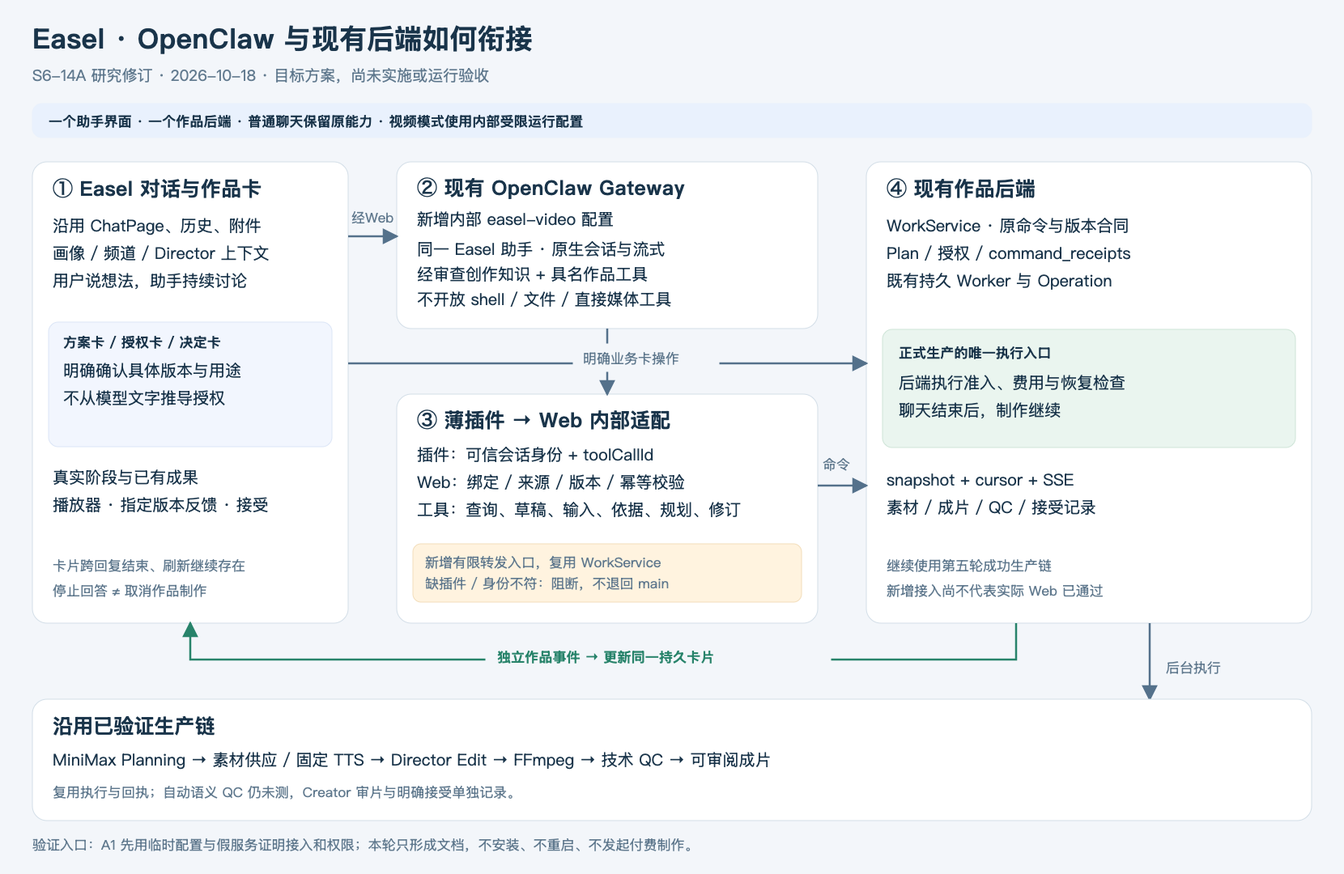
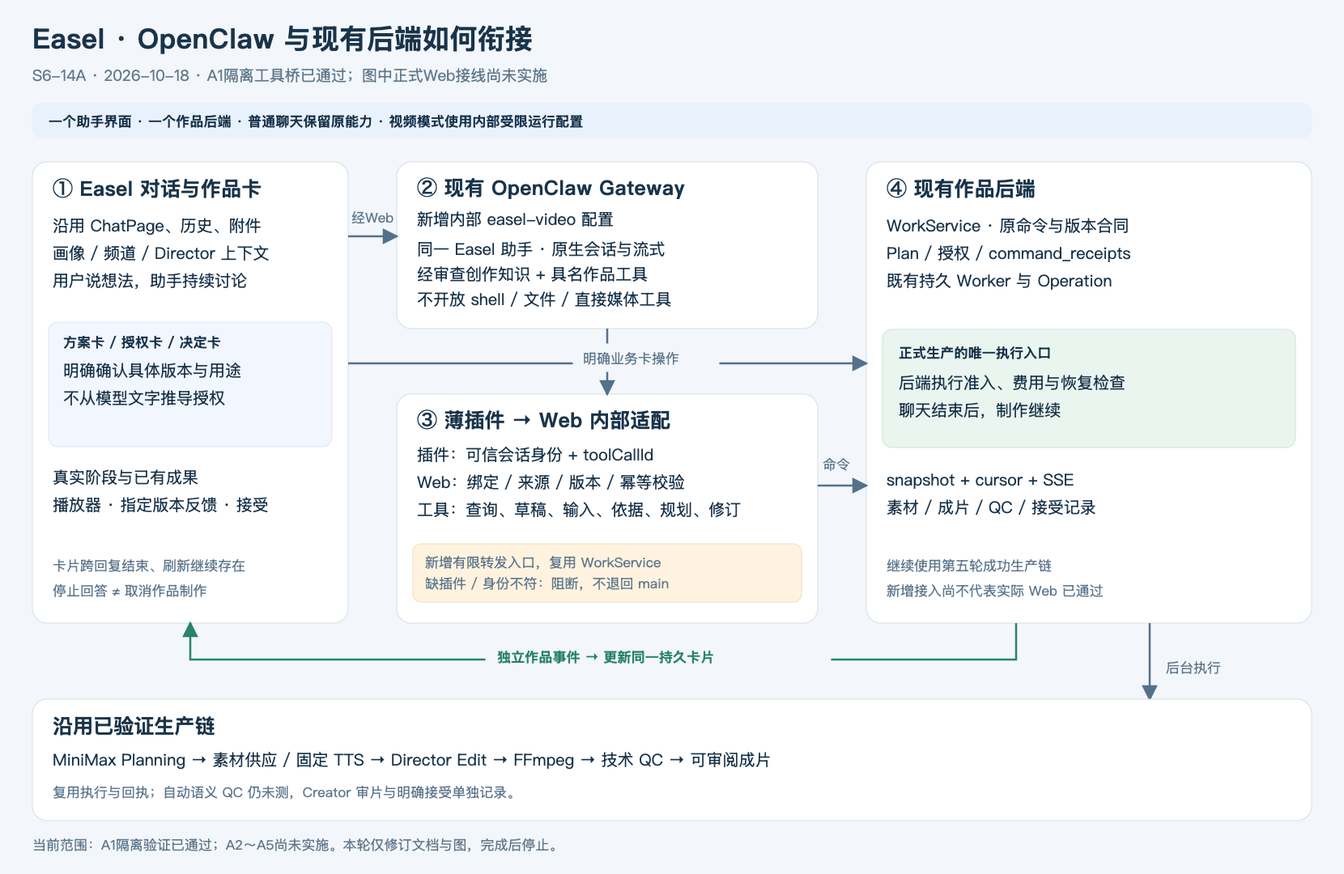
docs(S6-14A): detail creation flows and resolve interaction review gaps

Changed region(s): [[0.0307, 0.9472, 0.5223, 0.9778], [0.0614, 0.0611, 0.3994, 0.0917]]

diff --git a/docs/v2/20_CONVERSATIONAL_INTERACTION.md b/docs/v2/20_CONVERSATIONAL_INTERACTION.md
@@ -1,6 +1,6 @@
 # Easel V2 · 对话式视频创作交互设计
 
-状态：**方案已获准推进 A1；A1 ISOLATED_FAKE_PASS，完整交互尚未实施**。2026-10-18 研究修订；文档研究基线 `bac81d99`，成功生产源码基线仍为 `406e523c`。用户已明确要求回到对话式创作、沿用 Easel 创作能力，并以已跑通的生产后端为基础；本文件维护具体交互方案；A1 的实际证据与范围限制见任务卡，不能据此宣称正式 Web 已接通。任务登记见 [S6-14A](tasks/S6-14A_conversation-integration.md)，第五轮生产证据见 [S6-14](tasks/S6-14_integration-release.md)。数据、API 和事件增量仅在[实施合同 §9](15_IMPLEMENTATION_DESIGN.md#9-s6-14a-对话接入增量提案待评审未实现)定义。
+状态：**方案已获准推进 A1；A1 ISOLATED_FAKE_PASS，完整交互尚未实施**。2026-10-18 已补齐创建流程并完成本轮整体文档审查；本轮审查起点 `b92228cb`，早期研究基线 `bac81d99`，成功生产源码基线仍为 `406e523c`。用户已明确要求回到对话式创作、沿用 Easel 创作能力，并以已跑通的生产后端为基础；本文件维护具体交互方案；A1 的实际证据与范围限制见任务卡，不能据此宣称正式 Web 已接通。任务登记见 [S6-14A](tasks/S6-14A_conversation-integration.md)，第五轮生产证据见 [S6-14](tasks/S6-14_integration-release.md)。数据、API 和事件增量仅在[实施合同 §9](15_IMPLEMENTATION_DESIGN.md#9-s6-14a-对话接入增量提案待评审未实现)定义。
 
 ## 1. 目标与设计依据
 
@@ -107,7 +107,7 @@ flowchart TB
 | 局部修改 | 在版本1上说“12秒这处换画面，声音保持” | 绑定 output_id 和用户明确的时间/场景；后端做影响分析，常规授权内局部修改直接推进，扩大影响/新增费用集中说明 |
 | 接受保存 | 明确接受当前所看的版本 | 保存具体输出到既有内容库；人工模式确认完整音画审阅。接受作品与接受导演分别记录 |
 
-**确认方式提案**：首期以版本卡上的明确操作作为生产、追加授权、接受和删除的提交点。自然语言“可以，按这个做”将当前唯一方案卡定位到确认操作；不先把文字当一次授权、再重复让用户批准。模糊“不错”“继续聊”绝不触发制作。后续若支持文字直接完成这些动作，须另做可追溯的语义授权合同及验收，不靠关键词匹配或模型自行生成授权字段。
+**确认方式提案**：首期以版本卡上的明确操作作为保存频道、提交参考拆解、确认风格、生产、追加授权、接受和删除的提交点。自然语言用于讨论、修订与定位目标；例如“可以，按这个做”定位并显示对应版本的确认卡，尚未提交命令，卡上一次明确操作才提交。不得先报告文字已经授权再让用户批准一次，也不得把模型整理的意图当授权。已成功提交的相同动作只展示回执；模糊“不错”“继续聊”不触发写入。后续若支持文字直接完成这些动作，须另做可追溯的语义授权合同及验收。仅进入受限创作模式不授予任何制作权限，不再额外确认频道/导演入口已明确表达的同一上下文选择。
 
 制作时仍可询问进度和讨论新想法。改变冻结内容时先说明受影响范围，用户明确选择停止后续制作并改版，或等首版完成再修改；不在活动 Run 中偷偷改 Plan。输入框“停止回答”只停止当轮对话；进度卡“取消制作”才调用作品取消。
 
@@ -134,7 +134,7 @@ flowchart LR
 
 - ChatPage 保持对话容器，提取 ProductionPage 中的方案、设置、进度、决定、成片与版本组件供两处共用；界面里同一状态来自同一 Work 快照。
 - 消息支持文字加结构化卡片引用。文字可流式；卡片内容由后端业务记录投影，不能从 Markdown 里解析“完成”“已接受”来更新状态。
-- 一段对话可先后关联多个作品，但同一轮只有一个明确的当前作品；输入框和卡片显示目标。打开旧成片回复时绑定那一版，不猜“最新文件”。跨作品切换不带走旧授权、素材权限或个人事实。
+- 一段对话可先后关联多个作品，但同一轮只有一个明确的当前作品；输入框和卡片显示目标。打开旧成片回复时绑定那一版，不猜“最新文件”。跨作品切换不带走旧授权、素材权限或个人事实。UI对话可连续，但从已有Work切换到新Work或换画像须建立新的受限原生运行段；同一原生转录不能只靠换workId继续复用。恢复原作品可以恢复其匹配的运行段，失效时以必要可见依据建立新段。
 - 画像/频道/导演、声音和字幕等放在上下文条与按需展开控件；依然能精确设置，但不要求逐项填完才讨论。长期默认保存须明确范围。
 - 内容库和作品列表都能打开作品，恢复当前方案、进度和版本；无旧聊天时可开启绑定同一 Work 的新对话，无须重跑制作。
 
@@ -314,7 +314,7 @@ stateDiagram-v2
 | 多轮讨论/多作品切换 | 串行处理同一会话变更；每条消息固定目标，其他作品的旧结果不会改变当前输入框目标 |
 | 生成或模型结果未知 | 展示待核实及已有成果；由既有操作核验流程处理，不将“继续”解释为重发 |
 | 后端版本过期 | 显示服务需要更新，拒绝新的生产命令；客户端不通过自动重试绕开503 |
-| 删除聊天/浏览器清缓存 | 作品仍在作品列表和内容库；新聊天可绑定原作品。删除聊天应清除聊天副本/绑定，保留已被方案引用的必要业务证据 |
+| 删除聊天/浏览器清缓存 | 作品仍在作品列表，已接受输出仍在内容库；新聊天可绑定原作品。删除聊天应清除相应聊天正文副本并撤销可继续对话的绑定；在途/待核实调用的最小身份与命令映射保留至核实完成，禁止晚到工具继续写入，保留已被方案引用的必要业务证据 |
 | 用户撤销/取消 | 分开“停止回答”“取消后续制作”；已提交的外部请求继续按原 Operation 收存，不承诺撤销费用 |
 
 ## 8. 实施顺序与本次交付边界
@@ -446,6 +446,11 @@ flowchart LR
 
 ### 11.2 从频道开始：设置、创作、再回到频道
 
+频道创建与导演形成的完整操作对照见下图；两条路径都可以从目录按钮或自然语言进入。
+
+![频道与导演创建流程](diagrams/s6-14a-creation-flows.svg)
+
+
 1. 已有频道：点击“在此频道创作”，对话顶部立即显示“画像P · 频道C · 导演D v2（频道默认）”。首条引导为“这次想讲什么？可以直接发经历、主题或素材”，不重复询问已有效的默认项。
 2. 新建频道：用户说“我想建一个分享产品经历的频道”，先形成简短设置提案：名称、创作定位、主题/受众及可选默认。展示所用画像，明确“保存频道”才调用既有 catalog 命令；不强制平台账号、发布计划或先选导演。没有画像可继续临时创作，保存有归属的频道前需选已有画像或走原画像创建入口，不能暗建人设。
 3. 同一对话继续说本期内容；频道自然语言定位作为有来源的默认创作依据，本期明确要求优先。无默认导演可推荐已有导演，或者按本期内容创作；也可走 §11.3 从参考形成，不阻断用户直接开始。
@@ -454,6 +459,19 @@ flowchart LR
 6. 下次“在此频道再做一条”另建 Work，带入届时有效的频道默认和用户明确的本次选择；不复制上片全文、旧授权或所有素材。若想沿用上片具体导演/结构，可在“基于此版新作”的上下文摘要中明确选择。
 
 **现状缺口**：CreativeCatalog 已有频道归属、名称、版本、导演关联和制作设置；其 settings 严格限制为制作参数，尚无创作定位/主题/受众的持久字段。A2须定义兼容的频道创作依据字段并送入 brief，不能把自然语言定位塞进未知 settings 键或画像文件，假装频道设置已完整可用。
+
+#### 频道创建：对话、确认、保存与接续
+
+| 步骤 | 具体入口/对话与卡片 | 保存事实与后续动作 |
+|---|---|---|
+| 进入 | 频道列表“创建频道”，或普通对话“建一个分享产品经历的频道” | 开启有明确画像范围的设置讨论；没有画像也可先讨论，不创建频道或空作品 |
+| 讨论 | Easel利用已有画像给出名称、定位、主题、受众建议；用户说“重点讲踩坑，别太鸡汤” | 保存可恢复的设置提案和来源，标“未保存”；画像本身不变。只有名称和所属已有画像是保存必填，其他可选 |
+| 一次确认 | 设置卡显示“画像P / 产品手记 / 定位与受众 / 默认导演：暂不设置 / 声音字幕：继承”，可自然语言调整 | “保存频道”一次提交当前提案；缺画像则回原画像入口选择/创建后恢复此提案，不重新访谈，不自动保存 |
+| 保存回执 | 返回“频道已保存”，显示实际名称与默认值；操作“在此频道创作”“查看频道” | 程序从持久回执取channel引用，更新目录与卡片。失败/响应未知时不展示已保存、不换ID重建；保存不会启动Planning/TTS/制作 |
+| 开始本期 | 用户点“在此频道创作”，或继续给出明确本期内容 | 在同一UI对话切入该频道的新作上下文；内容齐备后建Work。若用户已经同时提供本期主题，直接承接，不重复问主题；整理方案和制作仍按各自明确动作 |
+| 以后再来 | 频道详情“在此频道创作”或“继续某作品” | 前者用有效默认讨论新主题，后者恢复原作品快照。单纯保存后离开也完整有效，无须马上做一条视频 |
+
+设置卡示例：“产品手记 · 所属画像P；定位：真实产品实践与复盘；默认导演：暂不设置；音色/字幕：继承。”主要操作为“保存频道”，讨论输入框保持可用。“保存并开始创作”如后续采用合并文案，仅表示保存后进入新作讨论，必须明确不包含直接出片；首期优先分开显示上述两个动作。
 
 ### 11.3 从导演开始：复用已接受导演，或用参考形成导演
 
@@ -468,7 +486,23 @@ flowchart LR
 - 同一成片可兼作品和代表试片，但“接受作品”“接受此导演版本”“设为频道默认”是不同对象的操作与回执。可以在一张收尾卡显式选择，不默认全选；某项失败如实显示，重试仅处理未完成项。接受作品不强迫接受导演，反之亦然。
 - 当前导演接受要求合格试片 quality_state=passed，作品接受另有人工审片条件。该差异按 §10.5 留给A4核对，不因采用正式首版兼试片就宣称当前人工审片样本已满足导演接受。
 
+#### 导演创建：参考、草稿、试片与可复用版本
+
+| 步骤 | 具体入口/对话与卡片 | 保存事实与后续动作 |
+|---|---|---|
+| 进入 | 导演列表“从参考创建导演”，或对话“把这个视频的叙事和镜头风格形成一个导演” | 进入导演形成讨论，画像/频道可选；不以空名称生成“已可用导演” |
+| 给参考与偏好 | 上传/链接/片段；“保留克制的旁白，不要它的快切”。Easel可建议一个可修改名称 | 先保存会话提案/附件来源，展示实际可读取状态；链接须解析为允许的输入句柄后才能分析，无访问证据不推测已经看过 |
+| 明确拆解 | 卡片列出建议名称、选中参考/区间、喜欢/排除项及分析所需服务；操作“拆解这些参考” | 有有效授权不重复问；缺授权时在该卡补齐后提交。服务端创建/复用本次空闲草稿Work、登记参考、调用原analyze_director；各步留稳定回执，未全成可恢复 |
+| 讨论并确认风格 | 展示简明风格摘要，可展开时间点依据、观察/推测、适用限制；自然语言修改，操作“确认此风格” | 参考拆解产物和候选版本已自动登记为草稿；确认后为“风格已确认，待试片”，不变成已接受导演，不自动制片。调整已保存候选形成新版本，不改旧版证据 |
+| 用本人的新内容试片 | “这次讲我上线延期的经历”；同一对话整理方案，选择正式首版兼试片 | 明确方案、试用导演版本、服务及额度后才生产。可以晚点继续，或把草稿留在导演列表；不强制另外做一条固定时长试片 |
+| 审片并保存可复用导演 | 对实际视频评判风格与内容；“接受作品此版”“接受并保存导演D v1”为独立操作 | 作品接受进内容库；导演接受须风格确认、试片确实使用该版本、满足当前质量条件并明确接受，保存代表试片/版本。只接受作品时导演仍待确认；质量条件不满足则说明原因并保留草稿 |
+| 频道关联与后续新作 | 已接受导演详情可“用此导演创作”；可选“关联并设为频道C默认” | 后者明确显示目标频道与具体版本，保留已有其他关联导演；只使用一次不自动关联。频道默认保存成功才回写；之后新主题沿用所选版本，不复制原参考人物/经历或素材许可 |
+
+这里有两种“保存”：拆解后保存草稿与运行证据，保证中断可继续；用户接受合格试片后保存为可复用的已接受版本。两者在界面上明确标注。失败的拆解记录不冒充导演风格，刷新、重复点击或重新打开草稿不得重新发起已成功/未知分析。当前导演接受尚不支持作品的人工审片模式，按§10.5/A4保留差异；不能通过“接受并保存”按钮改写QC，也不自动追加收费检查。
+
 ### 11.4 多入口会合后的上下文与切换规则
+
+下表的优先级适用于可调整的创作设置，不授权改写真实身份/经历、核心观点、明确禁区或素材权益。涉及这些冲突时按已确认需求说明差异并处理，不用“本片优先”掩盖。
 
 | 情况 | 统一规则与用户可见结果 |
 |---|---|
@@ -499,3 +533,29 @@ flowchart LR
 用户在“产品经历”频道点“在此频道创作”，对话显示“画像P / 产品经历 / 导演D v2（频道默认）”，说“讲这次上线延期，别太鸡汤”。Easel沿用P的事实与D的叙事风格讨论；“别太鸡汤”先记本片。用户要求整理方案，再一次确认方案和本次授权，后端自主生产。用户说“12秒这处换画面，声音不变”，反馈绑定当前输出；修订版明确接受后出现在内容库和频道已接受区。用户若再说“这个频道以后都克制一点”，卡片显示频道默认的具体差异再保存；若说“把这种新的节奏存成导演新版”，则进入导演新版本/试片接受，不覆盖D v2。下次新主题使用有效频道默认，D v2保持，除非明确选新版本。
 
 本次只完善文档、图和[S6-14A任务](tasks/S6-14A_conversation-integration.md)的后续验收；目录语义字段、入口上下文持久化、导演形成对话及续作设置适配均未实施。不改正式后端、主OpenClaw配置或第五轮数据，不启动分析/付费/接受/发布。A1结论维持原范围；A2持久绑定与创作依据仍是下一实施事项。
+
+
+### 11.7 创建过程中的恢复与退出
+
+- **尚未保存**：设置提案、已选参考和修改意见留在当前会话的草稿卡；目录没有“正式频道/已接受导演”。刷新可恢复当前提案，明确丢弃只删除提案；已有原素材保留。
+- **已提交但回执未收到**：显示“正在核实保存/分析结果”，复用原命令身份查回执；不能依据模型正文报成功，也不以新命令重建频道/导演。创建频道后的“开始本期”失败不回滚已保存频道，重试只恢复后续上下文。
+- **拆解/制作进行中**：离开页面不取消任务。需要停止时明确取消；有效产物保留，UNKNOWN先核实。提交新参考/更改风格需等当前任务结束或明确取消后处理。
+- **跨入口恢复**：未落业务对象的提案从会话恢复；已有频道从频道详情恢复，已有导演草稿从导演详情恢复，试片/成片从原Work恢复。没有原聊天时恢复必要证据与业务卡，不保证恢复已删除全文。
+- **有新参考或新风格**：旧版本仍可复用；修改风格形成新候选版本并重新按试片规则验证。新参考须真实重拆且保留来源；当前catalog没有完整的同导演重拆入口，作为后续适配缺口，不能只改evidence字段或拿旧试片批准新版本。
+
+## 12. 本次整体方案审查与修正（2026-10-18）
+
+审查范围为本文件全部旅程、实施合同§9、S6-14A验收与五张交互图；对照已确认需求及现有WorkService/CreativeCatalog/附件和OpenClaw A1证据。**本轮文档审查完成，后续实现与交互验收仍未执行。** 不把纸面连通当产品通过。
+
+| 审查项 | 发现与本次修正 | 后续验证落点 |
+|---|---|---|
+| 创建与保存衔接 | 补齐两类创建入口、未保存提案、明确确认、成功回执、暂停恢复与开始本期；区分导演草稿/已接受版本，保存本身不发起制作 | §11.2/11.3/11.7；UI26/27 |
+| 无Work阶段与卡片 | 原卡片合同只面向Work，不能支撑频道创建提案；补设置提案的目标/版本/来源/恢复及后续Work关联，避免先造空作品 | 实施合同§9.9；UI26 |
+| 确认与关联 | 澄清首期文字用于讨论/定位卡，卡片操作才提交；明确设默认同时显示关联关系，依赖接受成功后才能设置，不默认联动 | §3、§11.3；UI23/26/27 |
+| 原生转录隔离 | 仅固定工具目标不能清除上一作品的原生聊天；新增换Work/画像使用新运行段、恢复原段和最小依据转接规则 | 实施合同§9.4/9.9；UI28 |
+| 素材与优先级 | 纠正未知权益“一律拒绝登记”的验收表述，允许合法参考登记/分析但不据此授权重剪；明确默认优先级不覆盖事实/禁区 | §11.4、S6-14A UI09/22 |
+| 删除与在途核实 | 删除聊天撤销继续调用能力，但保留待核实命令的最小映射，避免删绑定后无法对账；未接受作品从作品列表找回，已接受才进内容库 | §7；UI08/28 |
+| 后端复用的真实缺口 | 保留频道语义字段、fork设置沿用、参考导入/同导演重拆、人工模式导演接受的待接入事实；候选接口不冒充已实现 | 实施合同§9.8/9.9；A2/A4/A5 |
+| 图与任务状态 | 更正旧图“A1尚待验证”的阶段文字，修复UI19～UI25表格断开；本次完成后停止，A2列后续待启动 | 五图、S6-14A与当前状态 |
+
+本轮到文档/图修订、校验和归档为止，不启动A2、不改代码或正式配置、不发起业务调用。下一次是否实施由后续任务指令决定。

diff --git a/docs/v2/15_IMPLEMENTATION_DESIGN.md b/docs/v2/15_IMPLEMENTATION_DESIGN.md
@@ -236,7 +236,7 @@ brief 需要时增加 `brief_revision/brief_hash` 引用，由服务端验证消
 
 跨会话附件检查从“必须等于 Work.source_session_id”细化为“上传来源属于已校验的当前关联会话，且句柄/路径/hash满足该来源作用域”；保留来源 provenance，不覆盖原 source_session_id，不扩大到其他关联会话的任意文件。主动切换当前 Work 不转移已提交 turn 的归属。活动 Run 期间的新附件只留在会话待登记区，不能自动 cancel。
 
-聊天 SSE 候选新增 work_linked、work_card，保留 token/question/activity/done。卡片 envelope：`schema_version, card_id, kind, work_id, entity_ref, source_cursor`；entity_ref 指向 Plan/Run/Task/Output/Review，kind 只允许程序定义枚举。card_id 按实体和种类稳定生成；重复更新原卡。操作带具体版本/hash，过期卡409并提示刷新，不自动接受新版。
+聊天 SSE 候选新增 work_linked、work_card，保留 token/question/activity/done。作品卡片 envelope：`schema_version, card_id, kind, work_id, entity_ref, source_cursor`；entity_ref 指向 Plan/Run/Task/Output/Review，kind 只允许程序定义枚举。未有Work的目录创建提案及其持久卡合同见§9.9，不能强造Work或伪造Work cursor。card_id 按实体和种类稳定生成；重复更新原卡。操作带具体版本/hash，过期卡409并提示刷新，不自动接受新版。
 
 聊天事件序号与 Work cursor 分开。QuestionCards 可复用呈现；制作决定卡包含具体 decision_ref、有限合法动作和目标版本，生命周期绑定业务记录，聊天 done 后继续显示。gateway question.resolve 只回答创作澄清，不写制作授权。卡片恢复由快照投影完成，不要求后台主动再次调用 OpenClaw。
 
@@ -246,7 +246,7 @@ brief 需要时增加 `brief_revision/brief_hash` 引用，由服务端验证消
 
 首期推荐同一现有 Gateway 中新增内部 `easel-video` 配置（待实施、待验证）；不是新产品人格、模型替换或 Agent 委派。HTTP 目标 `openclaw/easel-video`，session key 固定 `agent:easel-video:<runtime_session_key>`。A1 已验证 HTTP/CLI 共用同一原生会话和绑定；正式问题桥、历史解析、会话重置仍须接入同一持久绑定；不能一条路径回 main。外部派发结果不明时禁止切换 CLI 重发。
 
-新视频对话从首轮使用受限配置。普通 main 对话进入视频创作时，在 UI 明确进入作品模式并开启受限运行段，保留原 UI 会话及本片必要可见内容；不复制 main 原生内部转录、秘密、工具执行上下文。两段历史按运行绑定分别读取。同一运行段内不因卡片选择切换到另一 Agent。普通 Easel main 功能继续使用其原配置，内部配置不可用时只拒绝作品动作。
+新视频对话从首轮使用受限配置。普通 main 对话进入视频创作时，在 UI 明确进入作品模式并开启受限运行段，保留原 UI 会话及本片必要可见内容；不复制 main 原生内部转录、秘密、工具执行上下文。两段历史按运行绑定分别读取。同一运行段内不因卡片选择切换到另一 Agent。切换到新Work或另一Profile时沿用同一受限Agent配置，但必须新建原生session/运行段；不把上一个Work的原生转录继续用于新作。返回原Work可恢复其匹配运行段，失效时只带允许的可见依据另开段。目录设置阶段向它首次创建的同画像Work绑定可以保留该段，绑定转移须持久、幂等且无旧调用在途；不能将已有Work的段重新绑定给另一Work。普通 Easel main 功能继续使用其原配置，内部配置不可用时只拒绝作品动作。
 
 配置使用严格工具 allowlist，仅加入上述作品工具和已验证安全的创作澄清能力。不得继承 coding profile 中的 exec/read/write、浏览器、任意网络、直接媒体生成、会话委派、发布或长期 Profile 写入。工具策略按本机实际版本核实合成后的结果，不套用旧模板。受限工作区不运行现有全量 sync，而只装配产品指令与审查后的知识；画像/目录/素材经服务端 scope 投影提供。启动文件、自动记忆、slash/管理命令与媒体自动处理也需验证，不能只检查模型可见工具名。
 
@@ -330,3 +330,24 @@ A1 新增运行就绪合同：Gateway /health=200 不证明插件已就绪。宿
 - 频道历史/导演使用视图从原Work、Plan、acceptance、导演代表试片引用投影；未接受作品保持待审/进行中分区，导演代表试片仅由合法导演accept更新。切换UI选择不改变既有学习提议目标或误写其他频道。归档/默认失效与并发保存返回明确错误，不静默替换版本。
 
 验收加入S6-14A UI19～UI25：三入口同链、默认优先级、跨画像/归档拒绝、频道语义依据、同Work正式首版兼试片与双接受、历史恢复/仅归属变更、fork设置与新授权。以上均为待执行验收，不能由A1隔离PASS或S6-13离线管理功能证明已通过。
+
+
+### 9.9 创建提案、目录卡与恢复（整体审查补充，未实现）
+
+创建流程见[交互设计§11](20_CONVERSATIONAL_INTERACTION.md#11-导演频道入口与统一创作闭环)，本节补齐尚无Work时的合同。目录写入仍复用CreativeCatalog，生产仍复用WorkService；不新增目录Agent/生产队列，也不将候选协议冒充A1已经提供的工具。
+
+**无Work阶段**：在既有会话/turn/卡片记录中保存有类型的设置提案，最少逻辑信息为proposal_id、kind（channel_create/director_formation）、revision/hash、来源消息/附件、目标Profile及可选channel/director、用户值/系统建议、状态及applied_entity_ref/receipt_ref。work_id此时可空。宿主以受限运行段与明确Profile/目录目标校验范围，只给所选信息；不能为取得工具上下文先创建无内容Work。模型结构化候选由宿主按schema/来源校验后保存为提案，不从自由Markdown推导执行卡/授权，候选本身不写catalog。
+
+**目录卡**：沿用持久卡投影，但entity_ref可为有类型的创建提案、Channel、DirectorRevision或分析Task；work_id仅在有关联Work时出现。提案使用自己的revision/hash，已存在目录对象使用catalog revision，分析进度使用所属Work cursor。不得把三种版本混用。kind/动作固定枚举；模型不能定义按钮动作/URL。每次修改生成提案新版本，旧卡不可提交；卡片显示未保存、提交中、待核实、已保存及真实实体引用，成功状态来自命令回执。关闭/刷新从持久记录恢复。
+
+**确认动作**：首期channel_create、director_analysis、style_confirm、director_accept和channel_default与生产confirm一样，只由明确卡操作提交，正文同意只定位卡片，不自行生成执行权限。服务器重新核对提案hash、目标范围、目录/输入版本与授权；首次动作固定command_id，响应丢失复用原ID取回执。同一已应用提案不因重复点击/另一窗口/新的toolCallId再次创建。服务端语义校验、允许值和来源仍必要，用户点击不把模型生成的任意路径/字段合法化。
+
+**分步创建与衔接**：频道保存独立于Work，不启动生产；后续进入新作若失败只恢复绑定，不能重建频道。导演分析需Work→输入登记→catalog create/analyze，这些沿用各自固定命令并保留步骤回执/输入映射；中途失败从未完成步骤续接，成功/UNKNOWN分析不重发。参考专用Work的初始主题取用户实际“分析这些参考并形成风格”的请求，不编造其经历或正式脚本；以后在空闲状态用来源明确的本期brief承接正式首版。现有API直接创建导演时即创建分析Run，不存在“先建一个空导演就可用”的阶段。
+
+**目录关联与组合动作**：显式“关联并设为频道默认”提交准确channel revision、完整保留后的director_ids及已接受的default_director_revision；只设置默认而缺关联的请求由适配校验/补齐用户已确认的那一个关联，不清除其他关联。现有catalog只检查默认版本可用，没有完整强制默认属于关联集合，须在实施时补一致性校验。试片收尾若用户选择多项，作品accept与导演accept分别留回执；设置默认依赖导演accept实际成功，否则保持待处理，不伪造全组成功或重跑已成功动作。失败提示目标和可恢复动作，不自动扩大选择范围。
+
+**输入与权限**：上传归属/句柄/hash/symlink检查必须通过；Rights UNKNOWN可以作为合法登记的风格参考，不赋予剪入成片/原声复用的许可。远端链接须通过既有受控获取/媒体输入适配解析为句柄，受限聊天工具不接受任意URL/文件路径。下载/分析本身遵守允许来源与服务授权，无法取得媒体显示未分析。新增参考重拆同一导演需明确target director/base revision、空闲Work和新输入证据，保留旧已接受版本；当前catalog没有该完整入口，留待A2/A4适配，不通过revision接口替换evidence绕过分析。
+
+**终止与恢复**：删除聊天撤销继续工具调用的能力，清理聊天正文副本；在途invocation/command与结果待核实映射作为最小业务核实记录保留至结清，不能删除后遗忘UNKNOWN再重发。任务/成果/目录对象独立存续。原生段与Work/Profile绑定的恢复遵守§9.4，跨作品不能共用旧原生转录。拒绝/丢弃未保存提案不删除既有频道、导演、原素材或成功任务；不能把关闭页面当cancel。
+
+人工模式导演接受继续按§9.7保留为A4资格适配事项：当前不具备时卡片如实提示，保留待接受草稿，用户仍可独立接受符合条件的作品；不把semantic not_tested写成PASS，也不为解锁按钮自动运行收费检查。完成创建后回到新作讨论，不自动执行Planning/TTS/发布。

diff --git a/docs/v2/04_CURRENT_STATE.md b/docs/v2/04_CURRENT_STATE.md
@@ -8,12 +8,12 @@
 
 S6-01～13 的软件主链已接通；[S6-15](tasks/S6-15_material-layer-hardening.md) **CLOSED / COMPLETE**，不重开历史G4。前三部成片的研发协助记录、第四轮FAIL均保留，第五轮是独立成功样本。
 
-用户已明确要求回到 **Easel 对话式创作**，参考其管线，沿用现有创作能力与成功后端。新增 [S6-14A](tasks/S6-14A_conversation-integration.md)：**A1 ISOLATED_FAKE_PASS；A2～A5 尚未实施**。入口为[交互设计](20_CONVERSATIONAL_INTERACTION.md)，已补充[创作完成与回写闭环](20_CONVERSATIONAL_INTERACTION.md#10-创作结束后的闭环与回写2026-10-18补充设计)，区分自动事实登记、明确长期保存及可选发布复盘；另补齐[导演/频道入口与统一创作闭环](20_CONVERSATIONAL_INTERACTION.md#11-导演频道入口与统一创作闭环)及新图，登记频道语义字段、首版兼试片和fork设置沿用的接入缺口；补充设计未实现。候选接口只维护在[实施合同 §9](15_IMPLEMENTATION_DESIGN.md#9-s6-14a-对话接入增量提案待评审未实现)。
+用户已明确要求回到 **Easel 对话式创作**，参考其管线，沿用现有创作能力与成功后端。新增 [S6-14A](tasks/S6-14A_conversation-integration.md)：**A1 ISOLATED_FAKE_PASS；A2～A5 尚未实施**。入口为[交互设计](20_CONVERSATIONAL_INTERACTION.md)，已补充[创作完成与回写闭环](20_CONVERSATIONAL_INTERACTION.md#10-创作结束后的闭环与回写2026-10-18补充设计)，区分自动事实登记、明确长期保存及可选发布复盘；另补齐[导演/频道入口与统一创作闭环](20_CONVERSATIONAL_INTERACTION.md#11-导演频道入口与统一创作闭环)及新图，登记频道语义字段、首版兼试片和fork设置沿用的接入缺口；本轮进一步补齐[创建流程图](diagrams/s6-14a-creation-flows.svg)并完成[整体方案文档审查](20_CONVERSATIONAL_INTERACTION.md#12-本次整体方案审查与修正2026-10-18)，修正草稿/目录卡、确认、会话隔离与恢复合同；补充设计未实现。候选接口只维护在[实施合同 §9](15_IMPLEMENTATION_DESIGN.md#9-s6-14a-对话接入增量提案待评审未实现)。
 
 ## 唯一执行入口
 
 - 工作区 `/Users/xgx/Projects/Easel`；分支 `easel-v2-main-workspace`。第五轮成功生产基线 `406e523c035fe8da0f1435f4d813defa63653692`，当前文档提交HEAD以Git为准。
-- 服务 [本机7860](http://127.0.0.1:7860/)，唯一 `com.easel.web`。本轮只读能力检查HTTP200，`backend.reload_required=false`；未重启服务。生产源码后续有改动须先核实服务版本，禁止旧worker处理新命令。
+- 服务 [本机7860](http://127.0.0.1:7860/)，唯一 `com.easel.web`。此前A1收口时只读能力检查HTTP200，`backend.reload_required=false`；未重启服务。生产源码后续有改动须先核实服务版本，禁止旧worker处理新命令。
 - 当前聊天运行设置实测 **OpenClaw**，V2生产走 **MiniMax任务调用**；受限作品工具桥尚未接通。A1 已在独立临时 Gateway/工作区、假聊天模型与临时 WorkService 下验证原生插件、受限工具和 HTTP/CLI 会话绑定；正式 Web 尚未挂载，不能混为已接通的产品交互链。
 - [PR #8](https://github.com/webxia/Easel/pull/8) 仍是历史 `codex/s6-production` Draft，不包含主工作区最新修复；本轮不合并或汇合PR。
 - 真实服务保持具名授权；不使用qwen3.8或DeepSeek替代，不重发成功/UNKNOWN请求。本轮不创建第六轮、不迁移业务数据、不自动接受或发布。
@@ -30,11 +30,11 @@ S6-01～13 的软件主链已接通；[S6-15](tasks/S6-15_material-layer-hardeni
 
 第五轮输出 `f06e9604f6134039b5c22ae1303df323`：[播放视频](http://127.0.0.1:7860/api/production/artifacts/f06e9604f6134039b5c22ae1303df323/content)。45.000秒、1080×1920、H.264/AAC、51,940,170 bytes；SHA与登记一致。4次MODEL（Planning含一次自动格式修复）+7次VOICE全部成功，无UNKNOWN；技术QC pass，语义QC未测，quality_state仍needs_fix，接受记录为空。详细素材/命令/回执证据见父任务。
 
-第五轮生产基线最近软件回归为 **465 passed / 3 skipped / 0 failed**。本次 A1 新增边界用例后生产模块回归 **479 passed / 4 skipped / 0 failed**，原生安装集成用例已单独显式执行 **1 passed**，插件 Node 用例 **5 passed**；[A1记录](tasks/S6-14A_conversation-integration.md)区分其隔离范围与正式验收。
+第五轮生产基线最近软件回归为 **465 passed / 3 skipped / 0 failed**。此前 A1 新增边界用例后生产模块回归 **479 passed / 4 skipped / 0 failed**，原生安装集成用例已单独显式执行 **1 passed**，插件 Node 用例 **5 passed**；[A1记录](tasks/S6-14A_conversation-integration.md)区分其隔离范围与正式验收。
 
 ## 唯一研发下一动作
 
-**A1 已完成，下一事项为 A2 持久绑定与创作依据。** A1 的未挂载适配模块和原生插件只在隔离假服务中运行；需继续实现 turn/运行段持久化、来源/附件校验和恢复，再接正式聊天/UI。现有代码实施范围停在 A1；本轮追加完成/回写及频道/导演入口闭环文档与图，不自动实施 A2、安装正式插件、重启或发起真实调用。
+**本轮文档修订与整体审查完成后停止；后续待启动事项为 A2 持久绑定与创作依据。** A1 的未挂载适配模块和原生插件只在隔离假服务中运行；需继续实现 turn/运行段持久化、来源/附件校验和恢复，再接正式聊天/UI。现有代码实施范围停在 A1；本轮已补齐频道/导演创建流程并修正文档审查发现，遵照用户要求停止，不继续实施A2、安装正式插件、重启或发起真实调用。
 
 Creator可同时通过上方视频入口审片，反馈故事/风格、画面匹配、旁白/字幕、音乐/音效与节奏；未明确接受不标CREATOR_ACCEPTED。跨题材风格、质量、耗时/成本及完整规格矩阵归后续S7，不以此次交互设计自动启动。
 

diff --git a/docs/v2/INDEX.md b/docs/v2/INDEX.md
@@ -11,7 +11,7 @@
 | 模型、程序、用户分别负责什么 | [逻辑架构](02_ARCHITECTURE.md)及[已接受的逻辑边界 ADR](decisions/ADR-S5-001-work-production-boundary.md) |
 | 为什么推荐该技术，有什么替代和风险 | [技术选型](14_TECHNOLOGY_SELECTION.md)：推荐与条件未决项，不冒充全部已获批准 |
 | Coding 应遵守哪些数据、状态、API 和执行规则 | [实施合同](15_IMPLEMENTATION_DESIGN.md)：待实现的唯一合同，不是现有能力声明 |
-| 如何回到 Easel 对话式视频创作、前后端怎样衔接 | [交互设计与图](20_CONVERSATIONAL_INTERACTION.md)：参考 Easel 管线、含 OpenClaw 插件/受限运行配置研究、[完成与回写闭环](20_CONVERSATIONAL_INTERACTION.md#10-创作结束后的闭环与回写2026-10-18补充设计)、[导演/频道入口与整条闭环](20_CONVERSATIONAL_INTERACTION.md#11-导演频道入口与统一创作闭环)及[交互分镜](diagrams/s6-14a-interaction-storyboard.svg)的设计提案；[S6-14A](tasks/S6-14A_conversation-integration.md) 登记新增交互任务；A1 隔离原生验证已通过，正式 Web 和 A2～A5 尚未接入 |
+| 如何回到 Easel 对话式视频创作、前后端怎样衔接 | [交互设计与图](20_CONVERSATIONAL_INTERACTION.md)：参考 Easel 管线、含 OpenClaw 插件/受限运行配置研究、[完成与回写闭环](20_CONVERSATIONAL_INTERACTION.md#10-创作结束后的闭环与回写2026-10-18补充设计)、[导演/频道入口与整条闭环](20_CONVERSATIONAL_INTERACTION.md#11-导演频道入口与统一创作闭环)、[创建流程](diagrams/s6-14a-creation-flows.svg)及[交互分镜](diagrams/s6-14a-interaction-storyboard.svg)的设计提案，整体文档审查见[§12](20_CONVERSATIONAL_INTERACTION.md#12-本次整体方案审查与修正2026-10-18)；[S6-14A](tasks/S6-14A_conversation-integration.md) 登记新增交互任务；A1 隔离原生验证已通过，正式 Web 和 A2～A5 尚未接入 |
 | 任务顺序、依赖、覆盖关系与验收分工是什么 | [实施任务包](tasks/S6_IMPLEMENTATION_PLAN.md)及各卡；每张卡维护自身执行结果 |
 | S6-15 素材层完善完成了什么 | [S6-15 结案任务](tasks/S6-15_material-layer-hardening.md)：G0～G4 历史正反证据；**CLOSED/COMPLETE，不是当前开放前置** |
 | 五类素材有哪些实证缺口、如何补齐 | [素材层审计](17_MATERIAL_LAYER_AUDIT.md)固定事实；[素材层架构与选型](18_MATERIAL_LAYER_ARCHITECTURE.md)定义内部方案，执行结果仍在 S6-15 |

diff --git a/docs/v2/tasks/S6-14_integration-release.md b/docs/v2/tasks/S6-14_integration-release.md
@@ -231,3 +231,8 @@ Creator 人工审片入口：[播放第五轮视频](http://127.0.0.1:7860/api/p
 ### 2026-10-18 · 频道/导演入口贯通设计
 
 已补齐[S6-14A交互设计§11](../20_CONVERSATIONAL_INTERACTION.md#11-导演频道入口与统一创作闭环)与[入口闭环图](../diagrams/s6-14a-entry-loop.svg)，将频道默认、导演版本复用/参考形成与同一对话、审片、明确回写及下一作串联；UI19～UI25记录后续验收。频道语义依据和fork设置沿用尚需A2适配；首版兼试片的独立接受及QC资格仍待A4验证。仅文档完善，无正式运行/付费/接受/发布，A1与第五轮证据范围不变，S6-14仍PARTIAL。
+
+
+### 2026-10-18 · 创建交互与整体方案文档审查完成
+
+按用户“补齐创建流程、审查全部方案、修改后停止”的要求，已完善[频道/导演创建](../20_CONVERSATIONAL_INTERACTION.md#11-导演频道入口与统一创作闭环)和[创建流程图](../diagrams/s6-14a-creation-flows.svg)，[整体审查结论](../20_CONVERSATIONAL_INTERACTION.md#12-本次整体方案审查与修正2026-10-18)明确已修正文档问题及尚未实施的接入缺口。记录与检查见[S6-14A](S6-14A_conversation-integration.md)，UI26～UI28待执行。仅文档/图，无代码、正式环境或真实业务变更；A1/第五轮范围不变，S6-14仍PARTIAL。本轮收口后停止，A2不自动启动。
